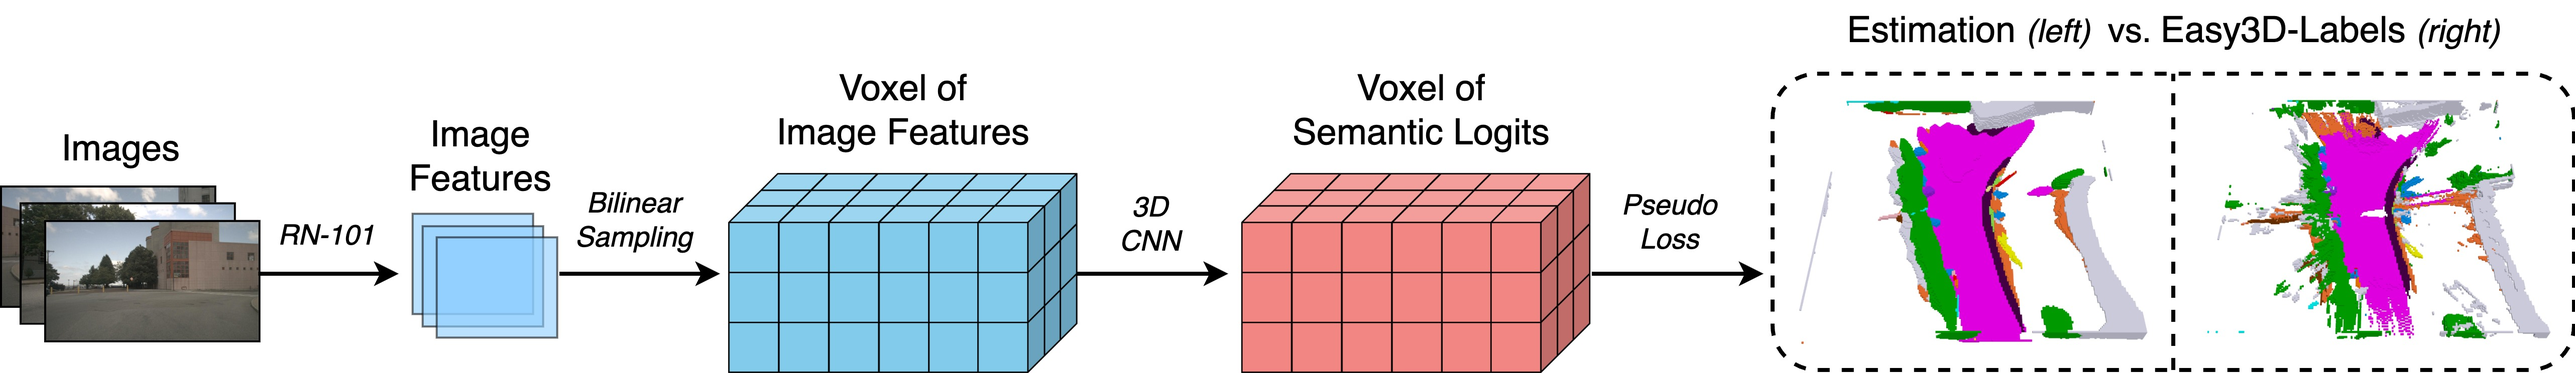
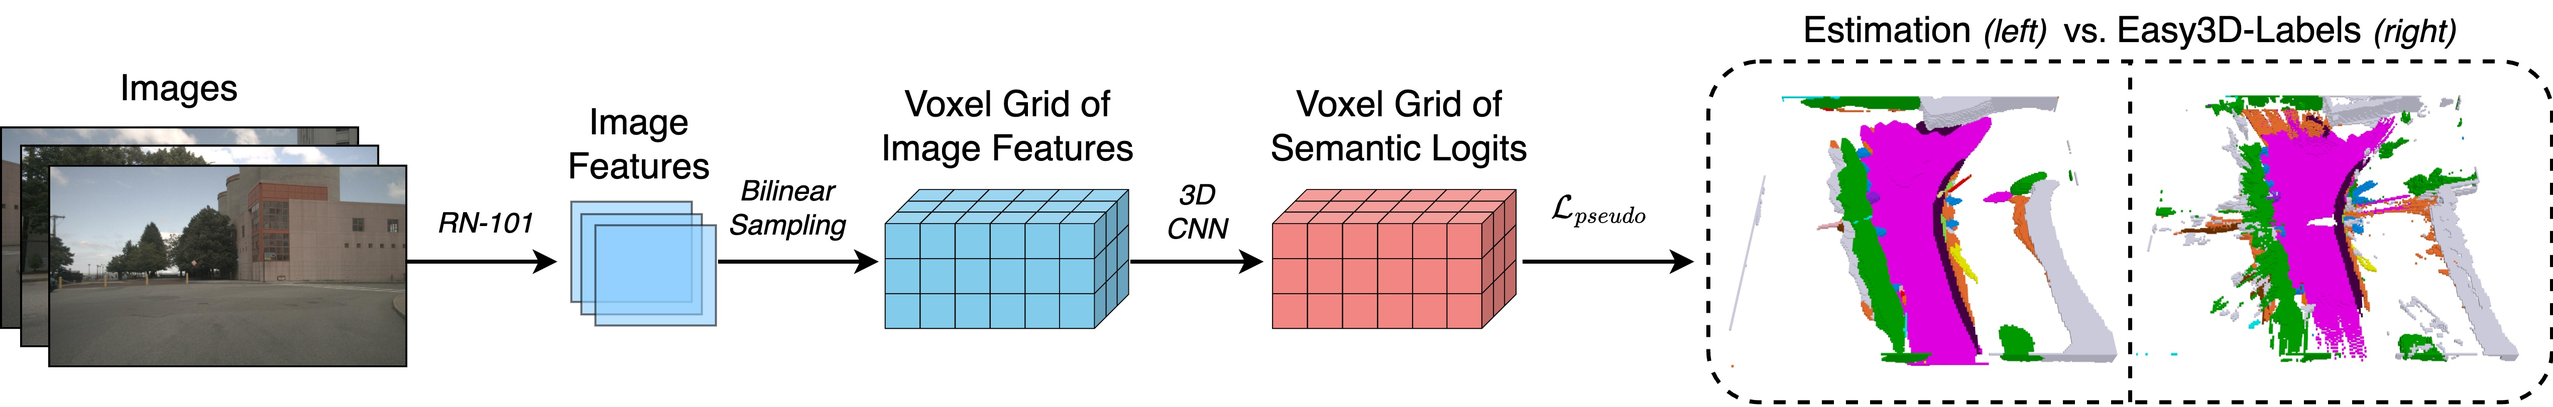
update

diff --git a/README.md b/README.md
@@ -3,17 +3,18 @@
 # Easy3D-Labels: Supervising Semantic Occupancy Estimation with 3D Pseudo-Labels for Automotive Perception
 
 <p align="center">
-  <a href="https://scholar.google.com/citations?user=3fffnjYAAAAJ&hl=en"><strong>Seamie Hayes</strong></a><sup>1,2</sup>,
+  <a href="https://scholar.google.com/citations?user=3fffnjYAAAAJ&hl=en"><strong>Seamie Hayes</strong></a><sup>1</sup>,
   <a href="https://scholar.google.com/citations?user=356ahmwAAAAJ&hl=en"><strong>Ganesh Sistu</strong></a><sup>1</sup>,
     <a href="https://scholar.google.com/citations?user=dDgm87sAAAAJ&hl=en"><strong>Tim Brophy</strong></a><sup>1</sup>,
-  <a href="https://scholar.google.com/citations?user=aH6w8VcAAAAJ&hl=en"><strong>Ciaran Eising</strong></a><sup>1,2</sup>
+  <a href="https://scholar.google.com/citations?user=aH6w8VcAAAAJ&hl=en"><strong>Ciaran Eising</strong></a><sup>1</sup>
 </p>
 
 
 <p align="center">
-<sup>1</sup> D²iCE Research Centre, University of Limerick &nbsp;&nbsp; <sup>2</sup> Taighde Éireann – Research Ireland &nbsp;&nbsp
+<sup>1</sup> University of Limerick &nbsp;&nbsp;
 </p>
 
+[![IEEE OJVT](https://img.shields.io/badge/IEEE%20OJVT-11571018-00629B?logo=ieee&logoColor=white)](https://ieeexplore.ieee.org/document/11571018)
 [![arXiv](https://img.shields.io/badge/arXiv-2509.26087-b31b1b)](https://arxiv.org/abs/2509.26087)
 [![Mendeley](https://img.shields.io/badge/Mendeley-9scymfs7xv-orange)](https://data.mendeley.com/datasets/9scymfs7xv/1)
 </div>
@@ -25,7 +26,7 @@
 <img src="assets/easyocc.jpg" width="100%">
 
 ## Abstract
-_In perception for automated vehicles, safety is critical not only for the driver but also for other agents in the scene, particularly vulnerable road users such as pedestrians and cyclists. Previous representation methods, such as Bird’s Eye View, collapse vertical information, leading to ambiguity in 3D object localisation and limiting accurate understanding of the environment for downstream tasks such as motion planning and scene forecasting. In contrast, semantic occupancy provides a full 3D representation of the surroundings, addressing these limitations. Furthermore, self-supervised semantic occupancy has seen increased attention in the automated vehicle domain. Unlike supervised methods that rely on manually annotated data, these approaches use 2D pseudo-labels, improving scalability by reducing the need for labour-intensive annotation. Consequently, such models employ techniques such as novel view synthesis, cross-view rendering, and depth estimation to allow for model supervision against the 2D labels. However, such approaches often incur high computational and memory costs during training, especially for novel view synthesis. To address these issues, we propose Easy3D-Labels, which are 3D pseudo-ground-truth labels generated using Grounded-SAM and Metric3Dv2, with temporal aggregation for densification, permitting supervision directly in 3D space. Easy3D-Labels can be readily integrated into existing models to provide model supervision, yielding substantial performance gains, with mIoU increasing by 45\% and RayIoU by 49\% when applied to OccNeRF on the Occ3D-nuScenes dataset. Additionally, we introduce EasyOcc, a streamlined model trained solely on these 3D pseudo-labels, avoiding the need for complex rendering strategies, and achieving 15.7 mIoU on Occ3D-nuScenes. Easy3D-Labels improve scene understanding by reducing object duplication and enhancing depth estimation accuracy, as reflected by improvements in the RayIoU metric. These findings highlight the importance of foundation models, temporal information, and 3D loss formulation in self-supervised learning for comprehensive scene understanding._
+_In perception for automated vehicles, safety is critical not only for the driver but also for other agents in the scene, particularly vulnerable road users such as pedestrians and cyclists. Previous representation methods, such as Bird’s Eye View, collapse vertical information, leading to ambiguity in 3D object localisation and limiting accurate understanding of the environment for downstream tasks such as motion planning and scene forecasting. In contrast, semantic occupancy provides a full 3D representation of the surroundings, addressing these limitations. Furthermore, self-supervised semantic occupancy has seen increased attention in the automated vehicle domain. Unlike supervised methods that rely on manually annotated data, these approaches use 2D pseudo-labels, improving scalability by reducing the need for labour-intensive annotation. Consequently, such models employ techniques such as novel view synthesis, cross-view rendering, and depth estimation to allow for model supervision against the 2D labels. However, such approaches often incur high computational and memory costs during training, especially for novel view synthesis. To address these issues, we propose Easy3D-Labels, which are 3D pseudo-ground-truth labels generated using Grounded-SAM and Metric3Dv2, with temporal aggregation for densification, permitting supervision directly in 3D space. Easy3D-Labels can be readily integrated into existing models to provide model supervision, yielding substantial performance gains, with mIoU increasing by 45\% and RayIoU by 49\% when applied to OccNeRF on the Occ3D-nuScenes dataset. Additionally, we introduce EasyOcc, a streamlined model trained solely on these 3D pseudo-labels, avoiding the need for complex rendering strategies and achieving 15.7 mIoU on Occ3D-nuScenes. Easy3D-Labels improve scene understanding by reducing object duplication and enhancing depth estimation accuracy, as reflected by improvements in the RayIoU metric. These findings highlight the importance of foundation models, temporal information, and 3D loss formulation in self-supervised learning for comprehensive scene understanding._
 
 ## Dataset
 The dataset is publicly available on [Mendeley](https://data.mendeley.com/datasets/9scymfs7xv/1)
@@ -37,6 +38,7 @@ I would like to thank the authors of the following open-source projects:<br>
 [GaussianOcc](https://github.com/GANWANSHUI/GaussianOcc)<br>
 [OccNeRF](https://github.com/LinShan-Bin/OccNeRF)<br>
 [SelfOcc](https://github.com/huang-yh/SelfOcc)<br>
+[GaussianFlowOcc](https://github.com/boschresearch/GaussianFlowOcc)<br>
 
 ## Citation
 ```
